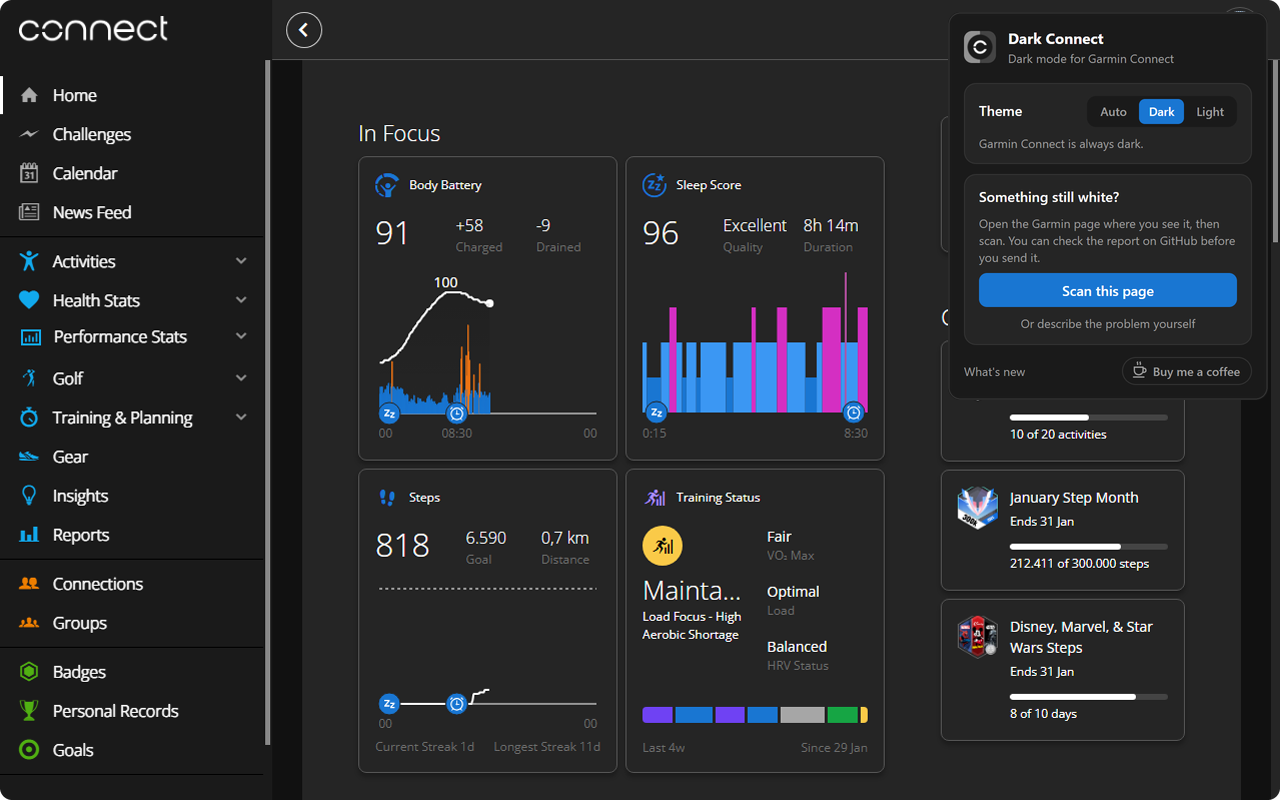
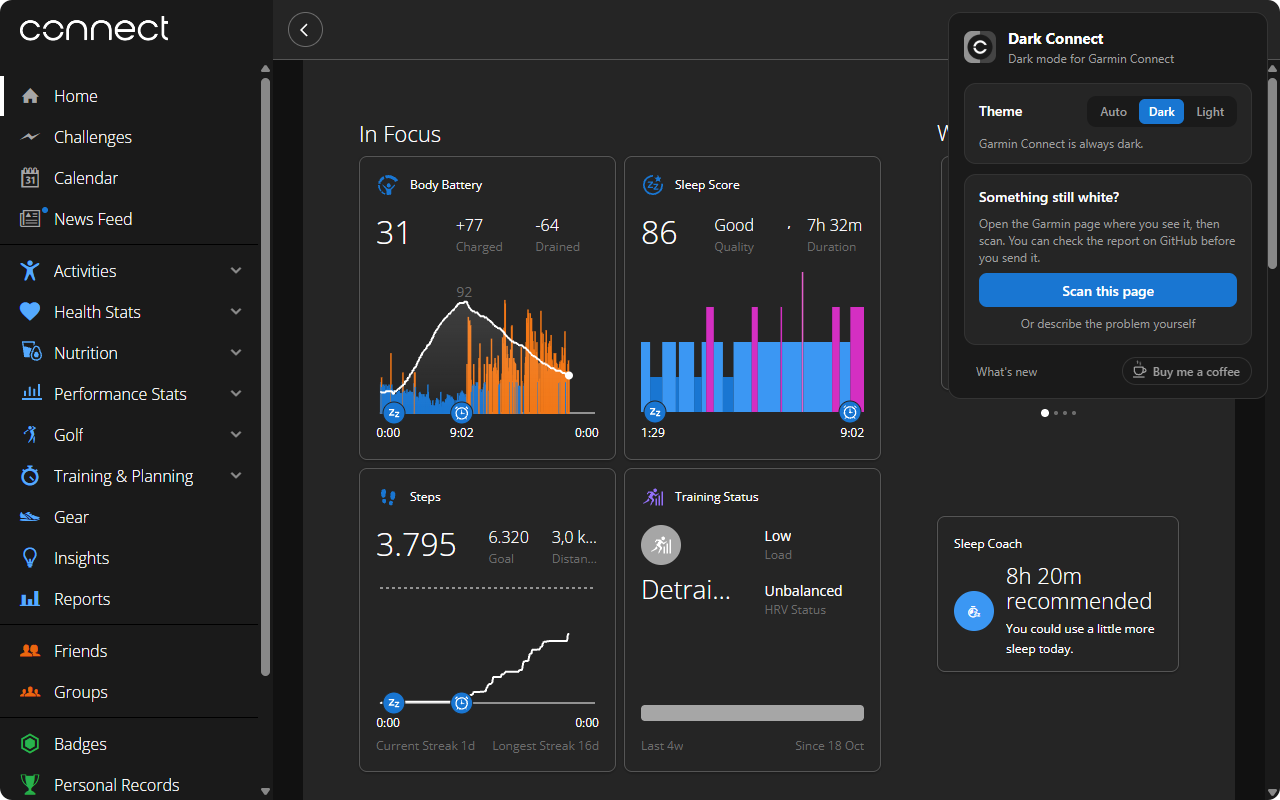
docs: capture new README and store screenshots from Garmin Connect
pnpm screenshots signs in with the sweep profile and captures the
dashboard with the popup, Training Status, Sleep and Body Battery. It
writes clean README screenshots with rounded corners and five captioned
store screenshots, the last one with the popup in Auto, Dark and Light.
The old screenshots with burned-in captions are removed.

diff --git a/CONTRIBUTING.md b/CONTRIBUTING.md
@@ -57,6 +57,15 @@ pnpm sweep sleep hrv                   # only pages whose address contains these
 
 Edit `scripts/sweep-pages.json` to add the pages your account can see, such as Garmin Connect+ features or pages for your devices. Your sign-in stays in `.sweep-profile/`, and both folders are ignored by Git.
 
+### Updating the README and store images
+
+```bash
+pnpm graphics      # banner, promo tile, marquee and store icon
+pnpm screenshots   # README screenshots and the captioned store screenshots
+```
+
+`pnpm graphics` draws everything from `scripts/build-graphics.mjs`, `static/brand/connect-wordmark.svg` and the icon in `public/icons/`. It needs the Gill Sans MT font, which comes with Windows. `pnpm screenshots` uses the same sign-in as `pnpm sweep`, so run `pnpm sweep --login` first if Garmin signed you out. Store images go to `static/store/`, and README images go to `static/images/`.
+
 ## 📝 Pull Request Naming Convention (CRITICAL)
 
 This project uses automated releases based on **Conventional Commits**. While you can name your local commits however you like, **the title of your Pull Request MUST follow a specific format and MUST be in English.**

diff --git a/README.md b/README.md
@@ -34,11 +34,11 @@ Garmin Connect has no dark mode, so Dark Connect adds one. Every page, chart and
 <details>
 <summary>More screenshots</summary>
 
-![Training Status charts in dark mode with Garmin's own colors](static/images/screenshot2.png)
+![Training Status charts over six months in Garmin's own colors](static/images/screenshot-training.png)
 
-![Running dynamics charts of an activity in dark mode](static/images/screenshot3.png)
+![The Sleep page in dark mode](static/images/screenshot-sleep.png)
 
-![Nearby courses with the map in dark mode](static/images/screenshot4.png)
+![The Body Battery timeline in dark mode](static/images/screenshot-health.png)
 
 </details>
 
